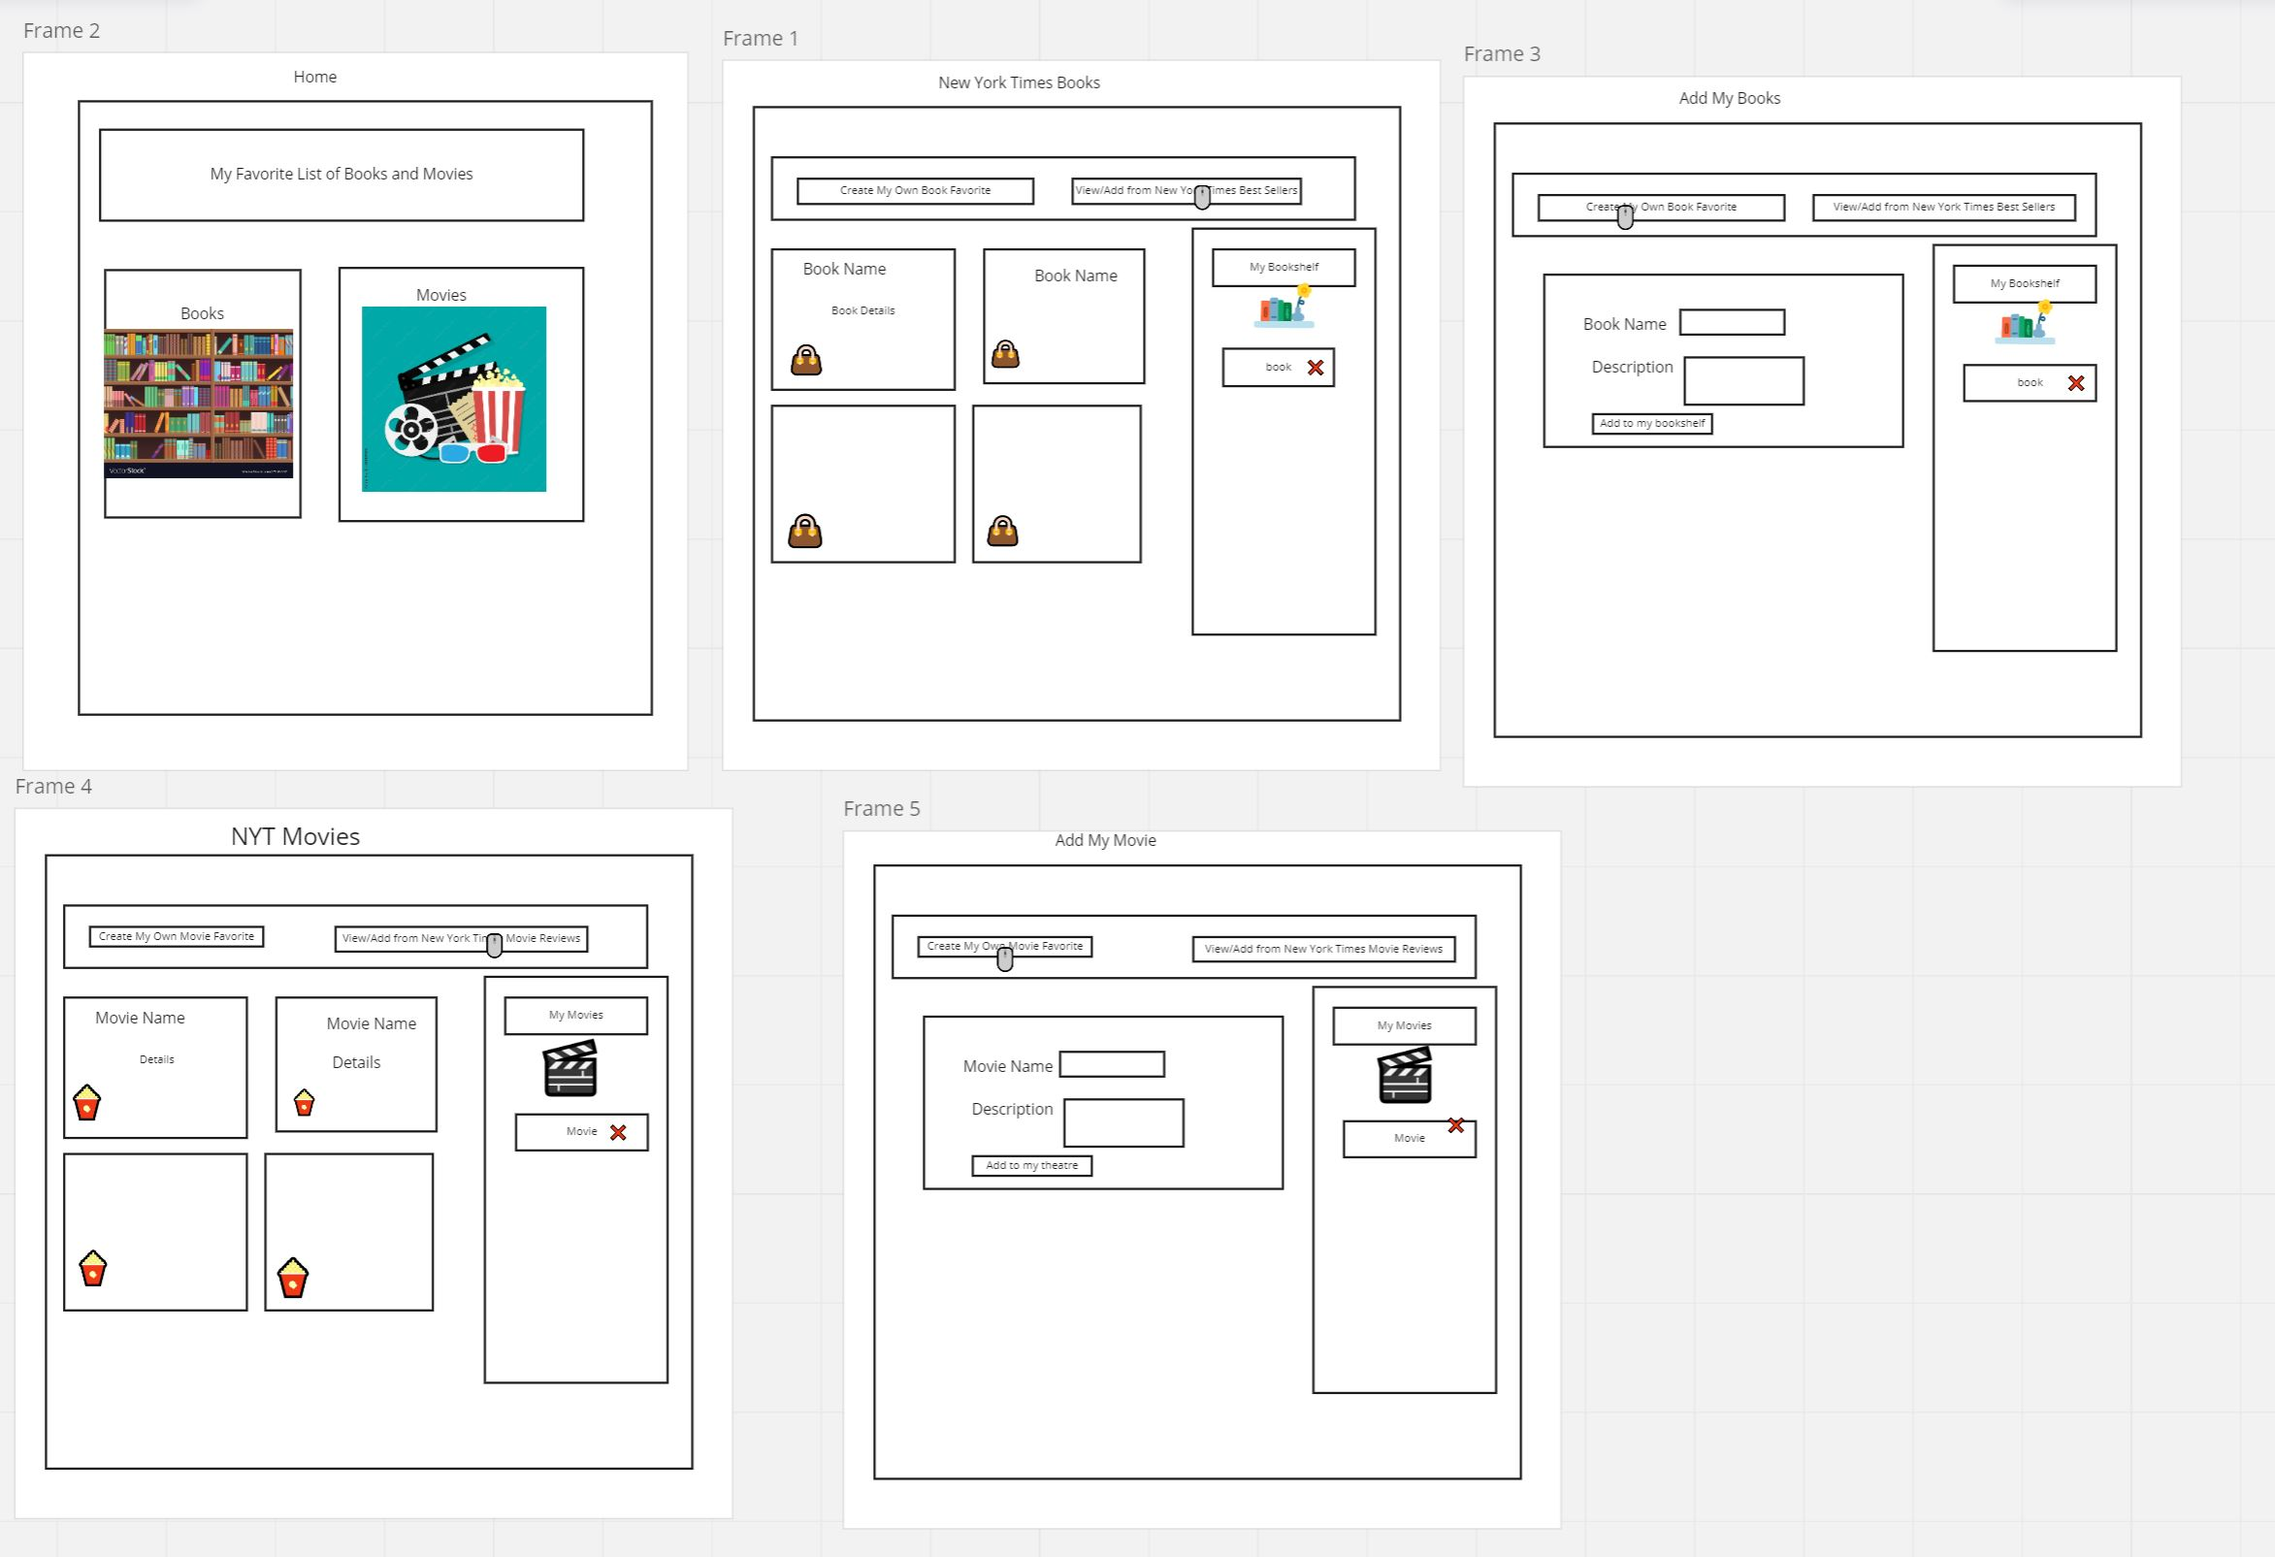
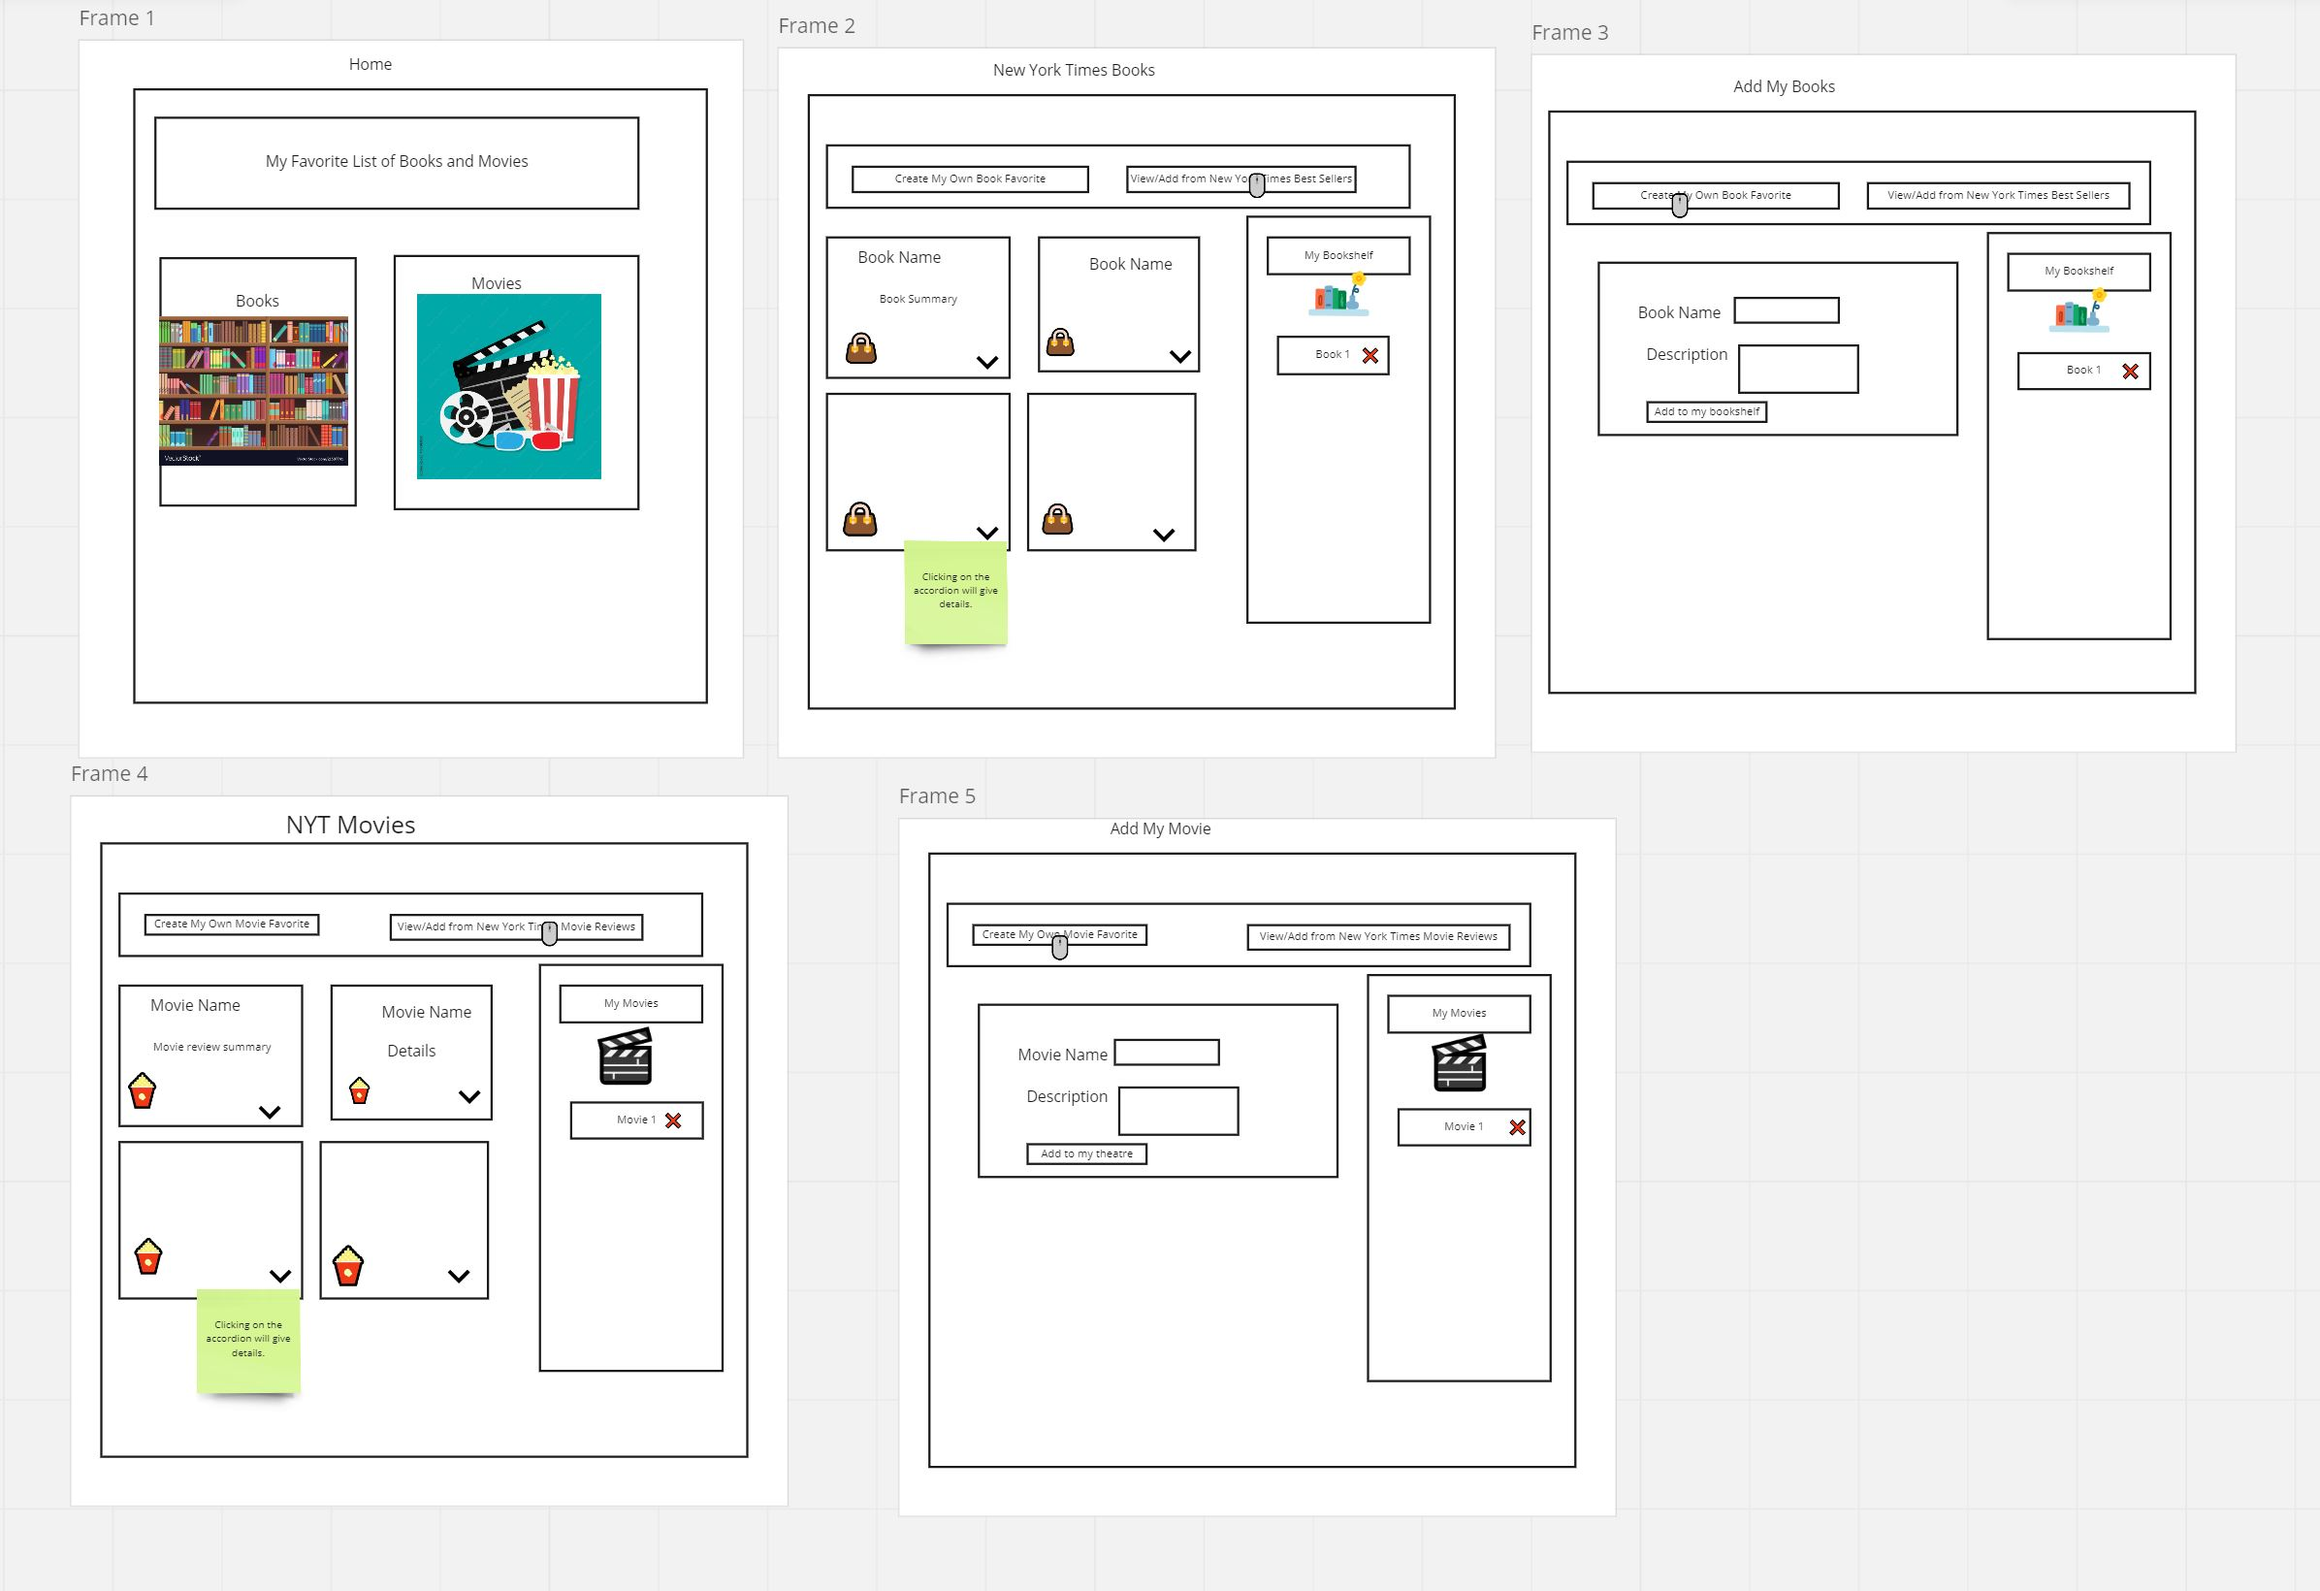
Project plan

diff --git a/ProjectPlan.md b/ProjectPlan.md
@@ -1,0 +1,73 @@
+
+## Project Plan
+
+**_My Favorite Books and Movies_**
+
+My family likes to read and watch movies. I always have trouble remembering a best seller that I wanted to read or watching a well reviewed movie. 
+The goal of this web app is to provide a way for someone to save a favorite list of movies and books. 
+
+This initial version of the project will get best seller books and movie reviews from the New York Times for the user to save to a firebase db. 
+
+*Additional nice to have options if I have time - 
+It will have user authentication and also alllow a user to add their own books and movies to their favorites.* 
+
+Eventually my hope to expand this project to allow groups of people to create shared lists of books, movies and shows, so that families and friends can share their favorites.
+
+* Attached a concept diagram created in Miro. The icons, images, card designs are concepts, the actual look and feel may be a slightly different.
+
+* List of dependencies 
+    * Setup `create-react-app` scaffold
+    * react-router-dom 
+      > `npm i react-router-dom`
+    * MUI styled components
+      > `npm install @mui/icons-material @mui/material @emotion/styled @emotion/react.`
+    * Google Firebase for db
+      > `npm install firebase`
+    * Deploy on GitHub Pages or create account on Heroku for deployment
+    * Set up API key for calling the New York Times Books API for bestseller books and Movie Reviews API
+    * 
+* List of tasks
+    * References -
+      * Refer to Vacation Rentals assignment for components and shopping cart design and state management.
+      * Refer to assignment for Star Wars router for compoents and browser router/loader concepts.
+      * Refer to the firebase class exercices to set up firebase functionality.
+    * Setup `create-react-app` scaffold
+    * Setup .env file with API keys and any other common URL variables
+    * Create Pages file skeletons for the home page, Books page, Movies page, Error page. 
+    * Connect App.js to home page.
+    * Create initial routes in index.js with loaders skeletons.
+    * Create App header component
+    * Build the Books functionality
+      * Create model classe for Book
+      * Create component cards to render book - title, image, summary data, icon for adding to favorite and accordian to show book details.
+      * Create component card for favorite books list with header, 
+      * Create loader to fetch data from Books API in Books page and hook it in the index.js route.
+      * Add book and favorite books list components into page.
+      * Start adding state callbacks to onclick handlers - 
+        * Clicking on favorite icon within book component should trigger disabling the button icon and adding it to favorite list component.
+        * Clicking on remove icon within the favorite list component should trigger removing it from the favorite list and enabling the button icon on book display list.
+      * Start adding CRUD operations - 
+        * Set up favorite books collection on firebase.
+        * Create functions to connect, insert and delete books
+        * Hook the calls to the onclick handlers.
+      * Setup and deploy on Git Hub Pages or Heroku
+    * Build the Movies functionality - Follow same steps as building the Books functionality.
+    * Cleanup, add README, test full project
+
+* A plan for the next 3 weeks and what you plan to accomplish each week
+  
+  * Week 1 - 
+   
+    * Figure out project idea and create project plan. 
+    * Create skeleton project with dependencies, check access to New York Times API.
+
+  * Week 2 -
+    * Implement Books functionality.
+    * Deploy 
+    * Build Movie model and database collection.
+
+  * Week 3 - 
+    * Implement Movies functionality.
+    * Test and deploy.
+
+
